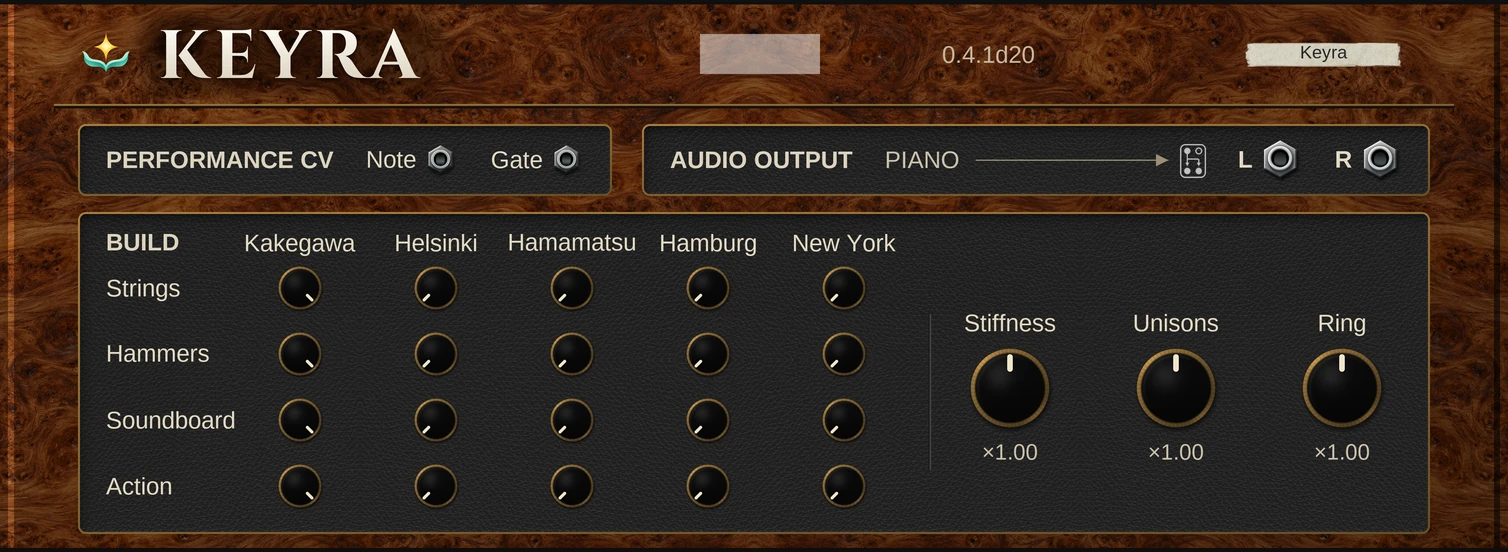
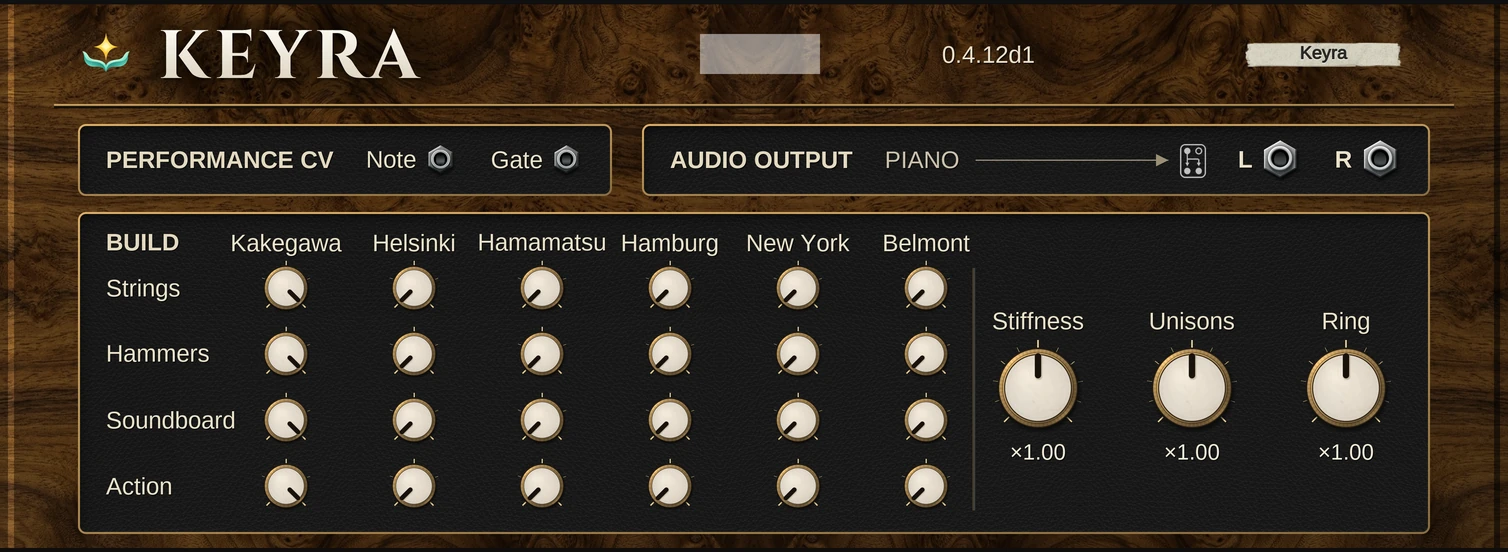
Update Keyra product page and panels to 0.4.12d1 Royal Conservatory finish

diff --git a/product/keyra/index.html b/product/keyra/index.html
@@ -5,13 +5,13 @@
   <meta charset="UTF-8">
   <meta name="viewport" content="width=device-width, initial-scale=1.0">
   <title>Keyra — Modelled Piano Rack Extension | Protocodus</title>
-  <meta name="description" content="Keyra is a sample-free piano Rack Extension for Reason, in development: five measured pianos whose parts mix into pianos none of them is, with three live pedals.">
+  <meta name="description" content="Keyra is a sample-free piano Rack Extension for Reason, in development: six measured pianos whose parts mix into pianos none of them is, with three live pedals.">
   <meta name="theme-color" content="#0d0e12">
   <meta property="og:title" content="Keyra — Modelled Piano Rack Extension | Protocodus">
-  <meta property="og:description" content="Keyra is a sample-free piano Rack Extension for Reason, in development: five measured pianos whose parts mix into pianos none of them is, with three live pedals.">
+  <meta property="og:description" content="Keyra is a sample-free piano Rack Extension for Reason, in development: six measured pianos whose parts mix into pianos none of them is, with three live pedals.">
   <meta property="og:type" content="website">
   <meta property="og:url" content="https://protocodus.cz/product/keyra/">
-  <meta property="og:image" content="https://protocodus.cz/product/keyra/Keyra_Thumbnail_800.png?v=20261031-release">
+  <meta property="og:image" content="https://protocodus.cz/product/keyra/Keyra_Thumbnail_800.png?v=20261103-release">
   <meta property="og:image:width" content="800">
   <meta property="og:image:height" content="800">
   <meta property="og:image:alt" content="Keyra Rack Extension front panel in burl walnut and bone, with three pedals and voicing knobs">
@@ -75,10 +75,10 @@
           <div class="instrument-intro">
             <span class="product-kicker">Modelled grand piano · Reason Rack Extension · In development</span>
             <h1 class="hero-title">Keyra</h1>
-            <p class="hero-sub">Keyra is a grand piano for the Reason rack with no samples inside. Five pianos, four grands and an upright, were measured and rebuilt as a model, and a Build deck on the back mixes them part by part into pianos none of them is. The Rack edition is in development; final specifications will be confirmed at release.</p>
+            <p class="hero-sub">Keyra is a grand piano for the Reason rack with no samples inside. Six pianos, five grands and an upright, were measured and rebuilt as a model, and a Build deck on the back mixes them part by part into pianos none of them is. The Rack edition is in development; final specifications will be confirmed at release.</p>
           </div>
           <div class="instrument-actions">
-            <ul class="instrument-facts" aria-label="Highlights"><li>Five measured pianos</li><li>Three live pedals</li><li>Thirteen patches</li></ul>
+            <ul class="instrument-facts" aria-label="Highlights"><li>Six measured pianos</li><li>Three live pedals</li><li>Fourteen patches</li></ul>
             <div class="hero-actions">
               <span class="product-status">Coming soon!</span>
               <a href="#details" class="detail-link" data-analytics-cta="hero_details" data-analytics-action="view_details">Explore Keyra <span aria-hidden="true">↓</span></a>
@@ -87,8 +87,8 @@
           </div>
         </div>
         <figure class="shot hero-shot">
-          <a class="screenshot-link" href="keyra-rack-front.webp?v=20261031-release" aria-label="View the Keyra Rack Extension front panel at full size" data-analytics-cta="front_panel" data-analytics-action="view_screenshot">
-            <img src="keyra-rack-front.webp?v=20261031-release" width="1508" height="552" fetchpriority="high" decoding="async" alt="Keyra Rack Extension front panel in burl walnut and bone, with three pedals and voicing knobs">
+          <a class="screenshot-link" href="keyra-rack-front.webp?v=20261103-release" aria-label="View the Keyra Rack Extension front panel at full size" data-analytics-cta="front_panel" data-analytics-action="view_screenshot">
+            <img src="keyra-rack-front.webp?v=20261103-release" width="1508" height="552" fetchpriority="high" decoding="async" alt="Keyra Rack Extension front panel in burl walnut and bone, with three pedals and voicing knobs">
             <span class="shot-caption">Front panel · development build <span>View full size <span aria-hidden="true">↗</span></span></span>
           </a>
         </figure>
@@ -100,7 +100,7 @@
         <div class="head">
           <span class="tag">The piano</span>
           <h2 class="title">Mix a piano that never existed.</h2>
-          <p class="lede">Choose a measured grand or upright from the patches, then turn the rack around and take the parts of your piano from any of the five.</p>
+          <p class="lede">Choose a measured grand or upright from the patches, then turn the rack around and take the parts of your piano from any of the six.</p>
         </div>
         <ul class="features">
           <li><h3>Three pedals you can see</h3><p>Sustain, sostenuto and soft are on the panel with continuous travel. Sustain supports intermediate positions, sostenuto holds the notes present when it engages, and the soft pedal changes the next strike.</p></li>
@@ -116,12 +116,12 @@
         <div class="edition-copy">
           <span class="tag">In the rack</span>
           <h2 class="title">Build deck on the back.</h2>
-          <p class="lede">The four-unit panel in burl walnut and bone keeps the pedals and the voicing in reach. The rear holds the Build deck that mixes the five pianos part by part.</p>
+          <p class="lede">The four-unit panel in burl walnut and bone keeps the pedals and the voicing in reach. The rear holds the Build deck that mixes the six pianos part by part.</p>
           <p class="lede">Note and Gate CV inputs bring rack sequencers into the same piano. Save the complete voicing as a Reason patch.</p>
         </div>
         <figure class="shot">
-          <a class="screenshot-link" href="keyra-rack-rear.webp?v=20261031-release" aria-label="View the Keyra Rack Extension rear panel at full size" data-analytics-cta="rear_panel" data-analytics-action="view_screenshot">
-            <img src="keyra-rack-rear.webp?v=20261031-release" width="1508" height="552" loading="lazy" decoding="async" alt="Keyra Rack Extension rear panel and connections">
+          <a class="screenshot-link" href="keyra-rack-rear.webp?v=20261103-release" aria-label="View the Keyra Rack Extension rear panel at full size" data-analytics-cta="rear_panel" data-analytics-action="view_screenshot">
+            <img src="keyra-rack-rear.webp?v=20261103-release" width="1508" height="552" loading="lazy" decoding="async" alt="Keyra Rack Extension rear panel and connections">
             <span class="shot-caption">Rear panel &amp; connections <span>View full size <span aria-hidden="true">↗</span></span></span>
           </a>
         </figure>
@@ -132,8 +132,8 @@
       <div class="wrap workflow-layout">
         <div>
           <span class="tag">Reason Rack Extension</span>
-          <h2 class="title">Thirteen patches to start from.</h2>
-          <p class="lede">Thirteen factory patches range from a concert grand to a felt upright and a close mono piano. The bank is in development and will be confirmed at release.</p>
+          <h2 class="title">Fourteen patches to start from.</h2>
+          <p class="lede">Fourteen factory patches range from a concert grand to a felt upright and a close mono piano. The bank is in development and will be confirmed at release.</p>
         </div>
         <aside class="info-card compatibility" aria-label="Keyra requirements and availability">
           <h3>Requirements &amp; availability</h3>
@@ -141,7 +141,7 @@
             <div><dt>Format</dt><dd>Rack Extension for Reason · 4U</dd></div>
             <div><dt>Playing</dt><dd>Sequencer notes, MIDI keyboard, Note/Gate CV</dd></div>
             <div><dt>Audio outputs</dt><dd>Stereo L/R</dd></div>
-            <div><dt>Factory sounds</dt><dd>Thirteen patches, in development</dd></div>
+            <div><dt>Factory sounds</dt><dd>Fourteen patches, in development</dd></div>
             <div><dt>Availability</dt><dd>Coming soon!</dd></div>
           </dl>
         </aside>

diff --git a/index.html b/index.html
@@ -179,12 +179,12 @@
           </article>
 
           <article class="product-card p-keyra">
-            <a class="product-shot" href="/product/keyra/" aria-label="Explore Keyra" data-analytics-cta="product_keyra_image" data-analytics-action="select_product"><img src="product/keyra/keyra-rack-front.webp?v=20261031-release" width="1508" height="552" loading="lazy" decoding="async" alt="Keyra Rack Extension front panel"></a>
+            <a class="product-shot" href="/product/keyra/" aria-label="Explore Keyra" data-analytics-cta="product_keyra_image" data-analytics-action="select_product"><img src="product/keyra/keyra-rack-front.webp?v=20261103-release" width="1508" height="552" loading="lazy" decoding="async" alt="Keyra Rack Extension front panel"></a>
             <div class="product-body">
               <div class="product-tags"><span>Rack Extension</span><span class="product-type">Modelled grand piano · In development</span></div>
               <h3><a href="/product/keyra/" data-analytics-cta="product_keyra_title" data-analytics-action="select_product">Keyra</a></h3>
-              <p>A piano with no samples inside: four grands and an upright, measured and rebuilt as a model, whose parts you can mix into a piano none of them is. Three live pedals move as you play.</p>
-              <p class="product-facts">Five measured pianos · Three live pedals · 13 patches<br>Rack edition in development</p>
+              <p>A piano with no samples inside: five grands and an upright, measured and rebuilt as a model, whose parts you can mix into a piano none of them is. Three live pedals move as you play.</p>
+              <p class="product-facts">Six measured pianos · Three live pedals · 14 patches<br>Rack edition in development</p>
               <div class="product-actions"><a class="product-more" href="/product/keyra/" data-analytics-cta="product_keyra_details" data-analytics-action="select_product">Explore Keyra <span aria-hidden="true">→</span></a><span class="product-status">Coming soon!</span></div>
             </div>
           </article>
